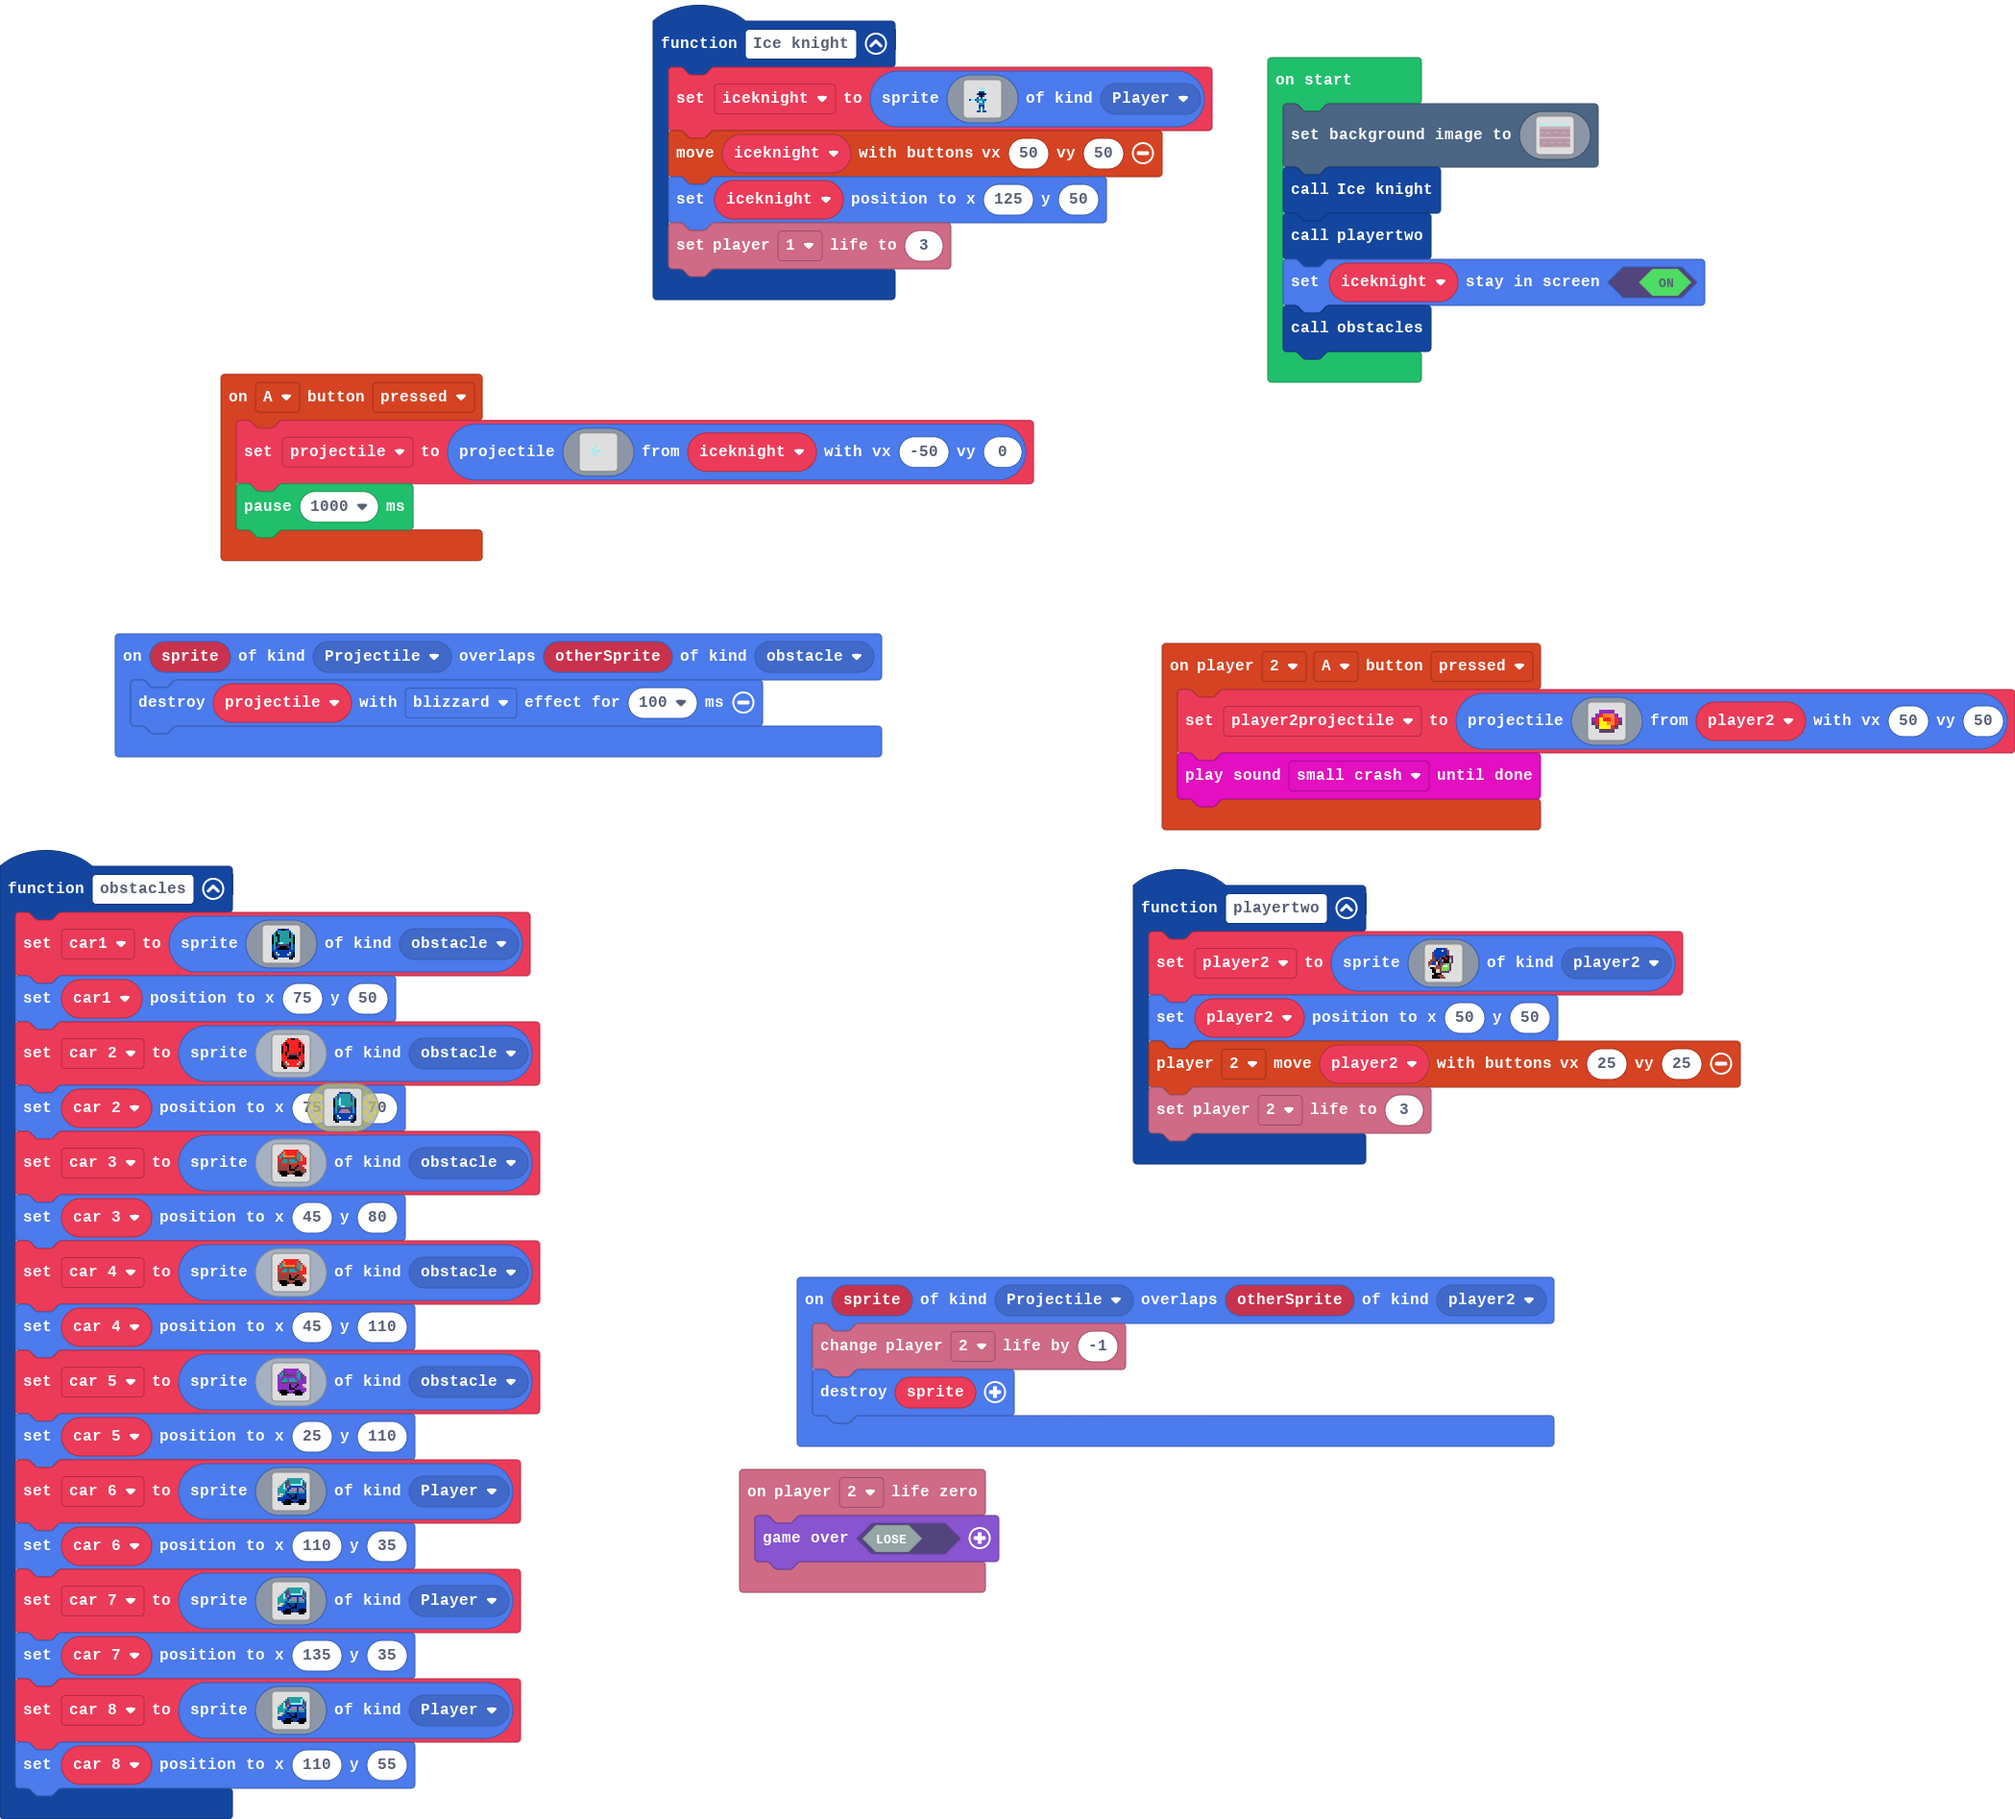
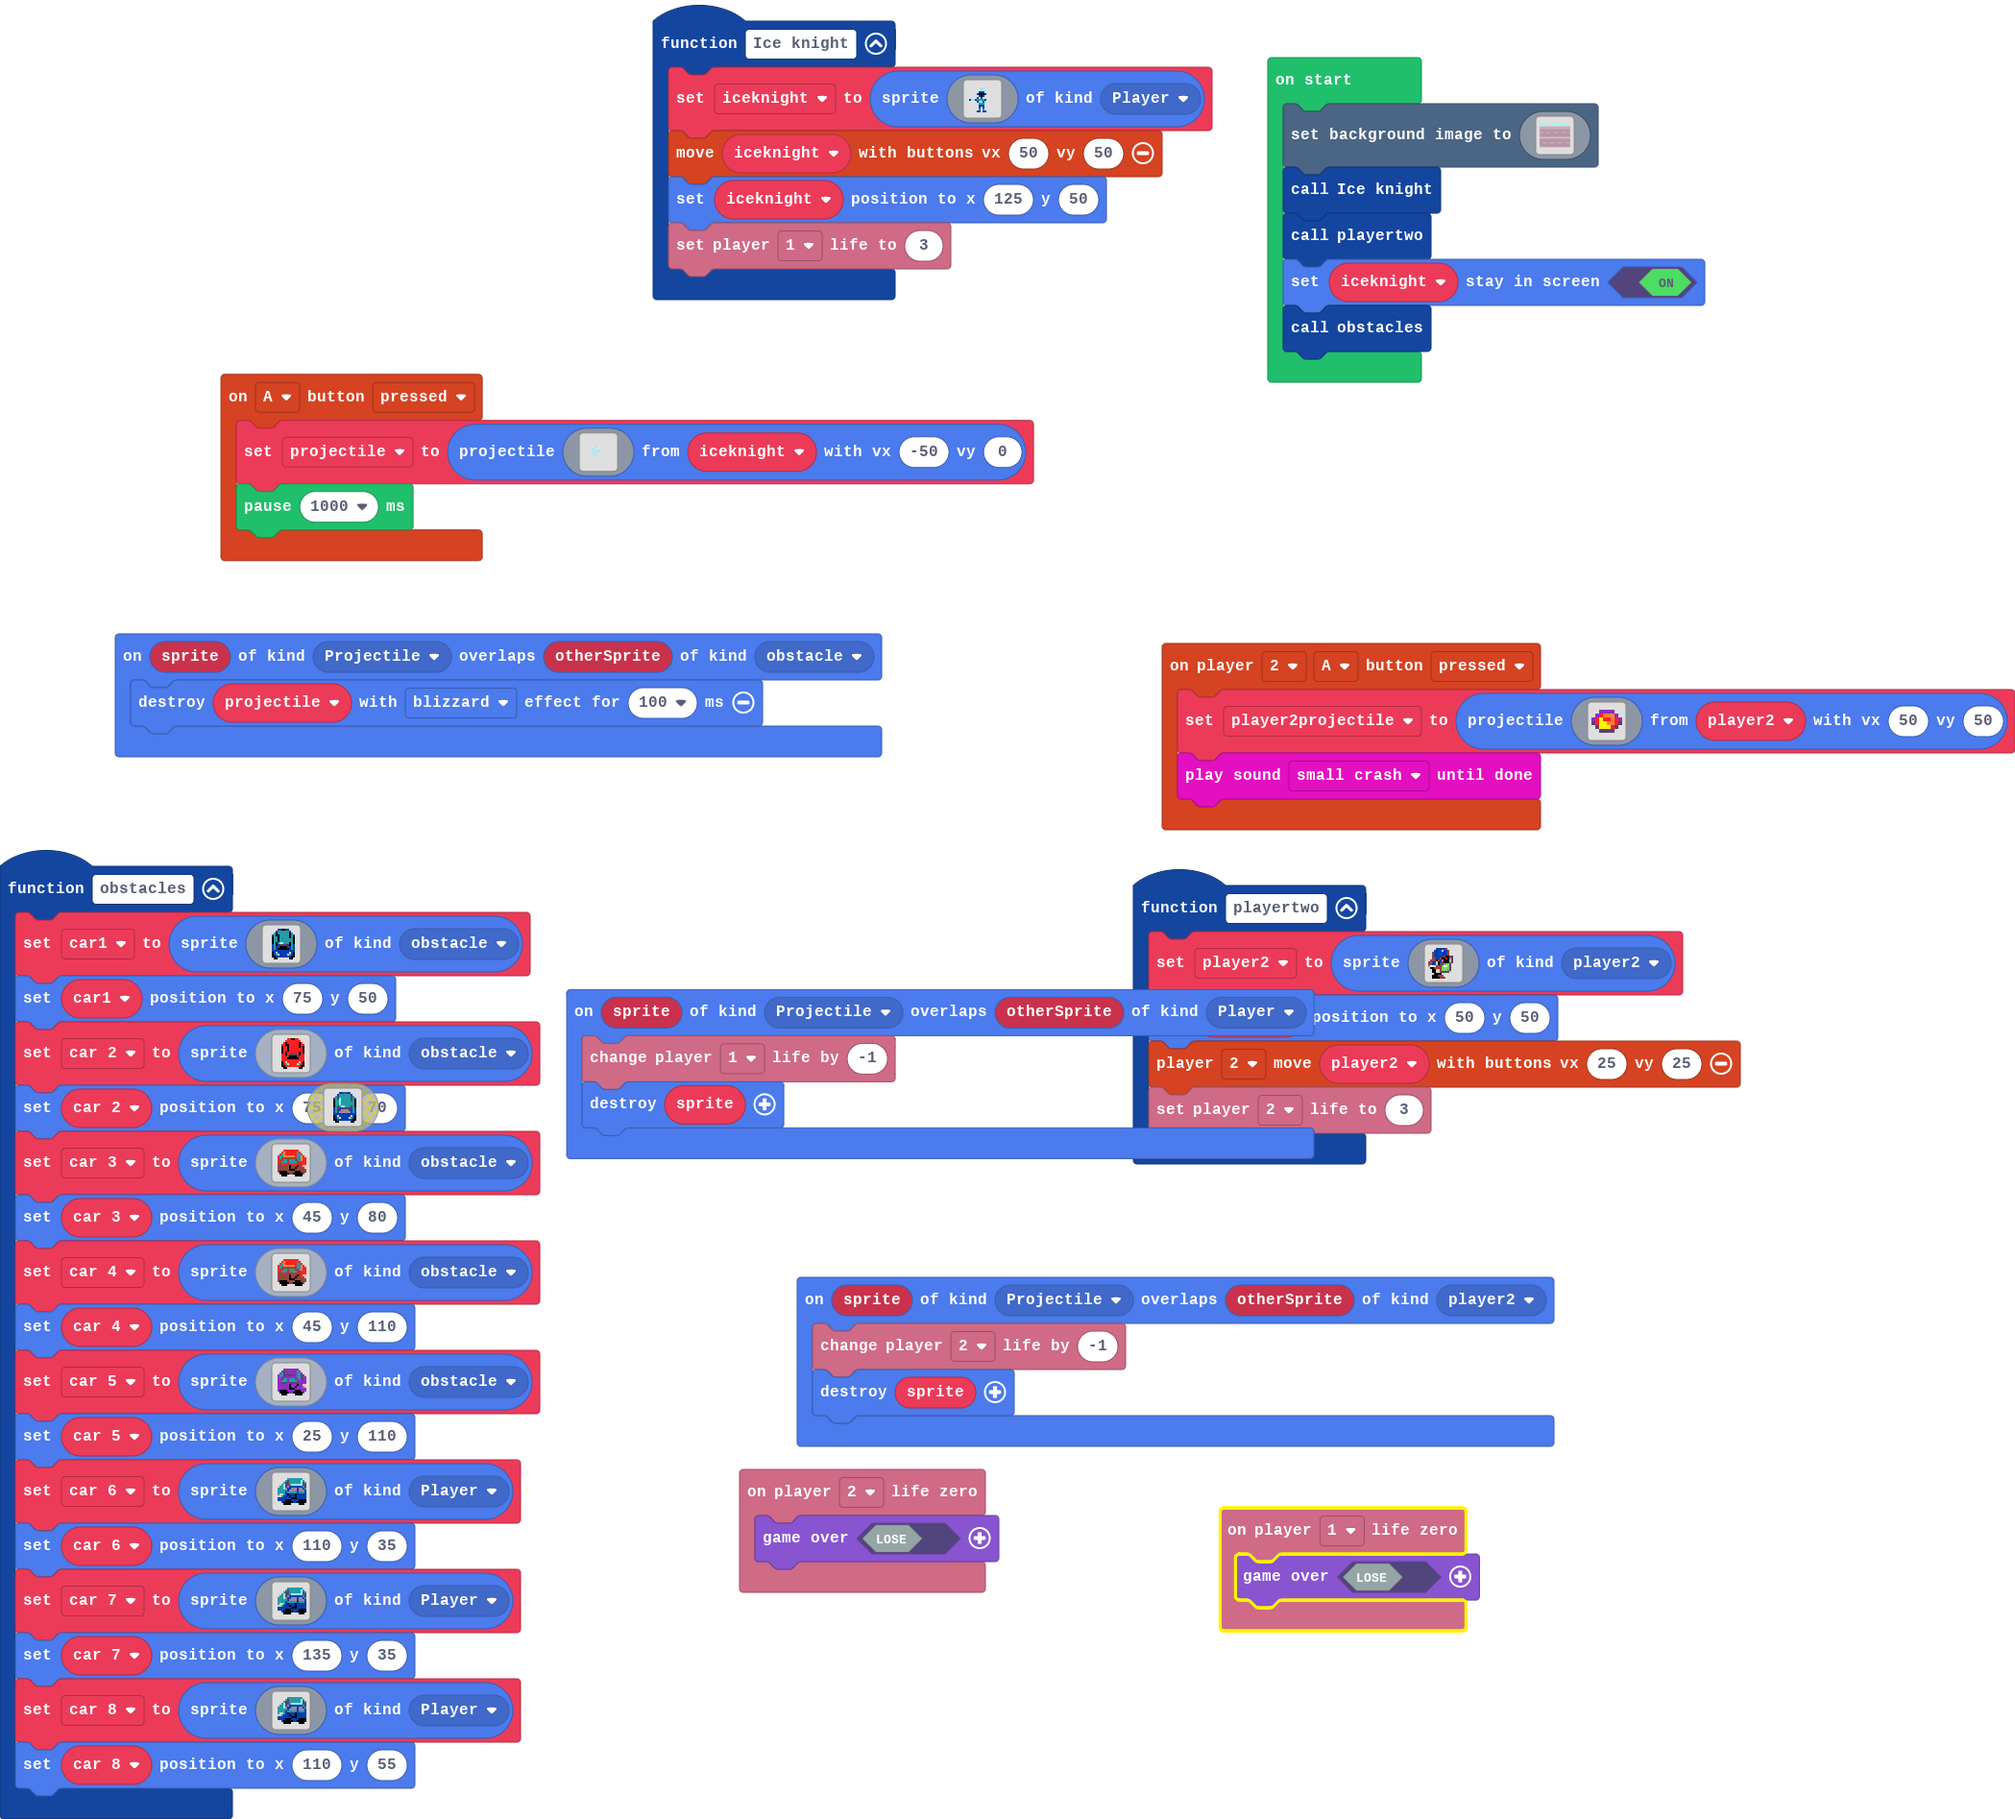
Update main.blocks, main.ts

Changed region(s): [[0.2788, 0.5296, 0.6506, 0.6542], [0.5887, 0.8099, 0.7436, 0.9034]]

diff --git a/main.ts b/main.ts
@@ -57,6 +57,10 @@ controller.player2.onButtonEvent(ControllerButton.A, ControllerButtonEvent.Press
         `, player2, 50, 50)
     music.smallCrash.playUntilDone()
 })
+sprites.onOverlap(SpriteKind.Projectile, SpriteKind.Player, function (sprite, otherSprite) {
+    info.player1.changeLifeBy(-1)
+    sprite.destroy()
+})
 sprites.onOverlap(SpriteKind.Projectile, SpriteKind.obstacle, function (sprite, otherSprite) {
     projectile.destroy(effects.blizzard, 100)
 })
@@ -83,6 +87,9 @@ function Ice_knight () {
     iceknight.setPosition(125, 50)
     info.player1.setLife(3)
 }
+info.player1.onLifeZero(function () {
+    game.over(false)
+})
 info.player2.onLifeZero(function () {
     game.over(false)
 })
